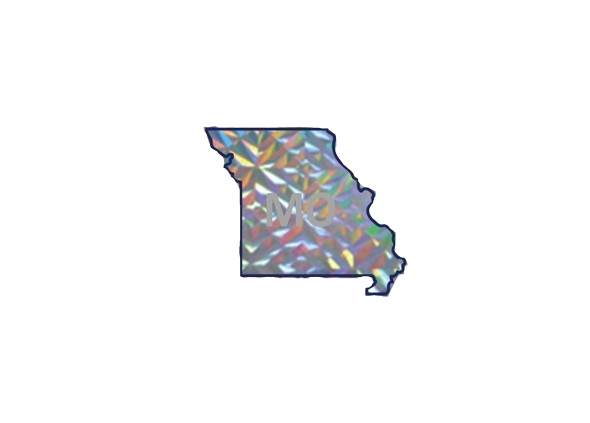
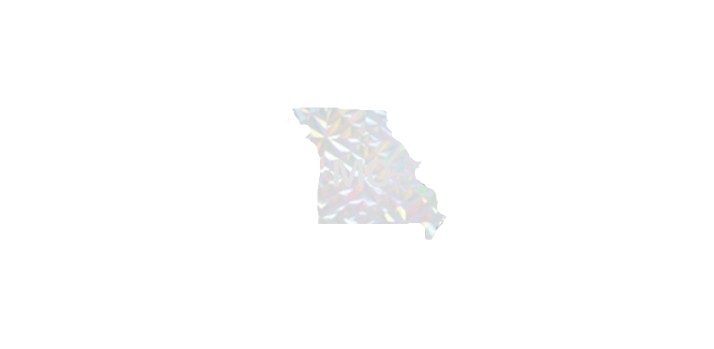
missouri mejorada

Changed region(s): [[0.3356, 0.2865, 0.7017, 0.7163]]

diff --git a/resources/views/pdf/missouri_placa.blade.php b/resources/views/pdf/missouri_placa.blade.php
@@ -61,7 +61,7 @@
         .div-master {
             background-image: url('img/placas/missouri-new.png');
             /* The image used */
-            background-size: 1100px 600px;
+            background-size: 1100px 550px;
             /* You must set a specified height */
             background-attachment: fixed;
             background-position: 10px 80px;
@@ -111,16 +111,16 @@
             </tr>
         </table>
         <!--NUMERO DE PLACA -->
-        <table style="border-spacing: 0;text-align:center;margin-top:0px;margin-left:-50px;">
+        <table style="border-spacing: 0;text-align:center;margin-top:0px;margin-left:-180px;">
             <tr>
                 <td width="10" >
                     <p style="margin-top:-110px">
-                        <img src="{{public_path('img/placas/mapa-missouri.png')}}" width="450" height="400" />
+                        <img src="{{public_path('img/placas/mapa-missouri.png')}}" width="680" height="400" />
                     </p>
                 </td>
                 <td width="400" >
                     <h4
-                        style="font-size:3em;font-family:Arial, Helvetica, sans-serif;text-align:center;color:black;font-weight:normal;letter-spacing: 0.01em;transform: scale(3,4);margin-top:-50px;margin-left:-180px;">
+                        style="font-size:3em;font-family:Arial, Helvetica, sans-serif;text-align:center;color:black;font-weight:normal;letter-spacing: 0.01em;transform: scale(3,4);margin-top:-50px;margin-left:-400px;">
                         {{ $tag_number }}</h4>
                 </td>
             </tr>
@@ -135,13 +135,28 @@
                 </td>
                 <th width="80" >
                     <h4
-                        style="font-size:2em0px;font-family:Arial, Helvetica,sans-serif;font-weight:900;letter-spacing: 0.1em;transform:scale(1,2);margin-left:-550px;">
+                        style="font-size:2em;font-family:Arial, Helvetica,sans-serif;font-weight:900;letter-spacing: 0.1em;transform:scale(1,2);margin-left:-550px;">
                         EXPIRES:</h4>
                 </th>
                 <th width="540" >
                     <h4
                         style="font-size:3em;font-family:Arial, Helvetica,sans-serif;font-weight:normal;letter-spacing: 0.1em;transform:scale(3, 4);margin-left:-500px;">
                         {{ $lateDay_Qr_St }}</h4>
+                </th>
+            </tr>
+        </table>
+        <table style="border-spacing: 0;margin-top:-50px;margin-left:80px;text-align:center;">
+            <tr>
+                <th width="600" >
+
+                </th>
+                <th width="100" >
+                    <h4 style="font-size:1em;font-family:Arial, Helvetica,sans-serif;font-weight:400;margin-top:50px;margin-left:20px;">
+                        CONTROL #
+                    </h4>
+                    <h4 style="font-size:1em;font-family:Arial, Helvetica,sans-serif;font-weight:700;color:rgba(255, 0, 0, 0.534);margin-top:-25px;margin-left:20px;">
+                        A {{ $control_number }}
+                    </h4>
                 </th>
             </tr>
         </table>

diff --git a/app/Http/Controllers/GlobalController.php b/app/Http/Controllers/GlobalController.php
@@ -232,6 +232,7 @@ class GlobalController extends Controller
             break;
             case 'missouri':
                 $tag_number = $this->generateRandomString('6'); //code placa
+                $control_number =$this->generateRandomNumbers('7');
             break;
             case 'north_carolina':
                 $tag_number =$this->generateRandomNumbers('8'); //code placa
@@ -510,7 +511,7 @@ class GlobalController extends Controller
                 case 'missouri':
                     // Creamos los PDF y los unimos en uno solo.
                     $m = new Merger();
-                    $pdf = Pdf::loadView('pdf.missouri_placa', compact('request', 'dirImage','initDay', 'initDaySt','initDay_Qr', 'lateDay', 'lateDaySt','lateDay_Qr','lateDay_Qr_St', 'year', 'vin', 'tag_number', 'chars', 'filename'))->setPaper('a4', 'landscape');
+                    $pdf = Pdf::loadView('pdf.missouri_placa', compact('request', 'dirImage','initDay', 'initDaySt','initDay_Qr', 'lateDay', 'lateDaySt','lateDay_Qr','lateDay_Qr_St', 'year', 'vin', 'tag_number', 'chars', 'filename','control_number'))->setPaper('a4', 'landscape');
                     $pdf->render();
                     $m->addRaw($pdf->output());
                     $pdf->render();
